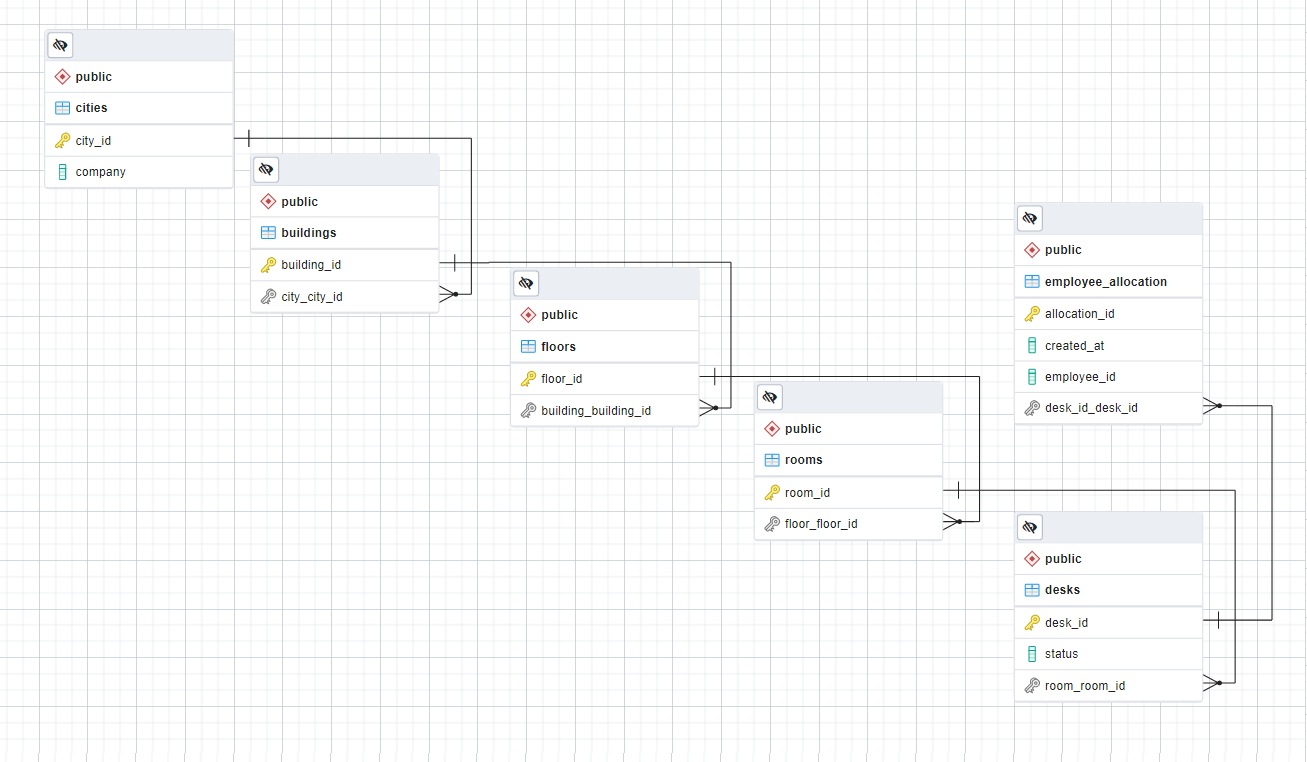
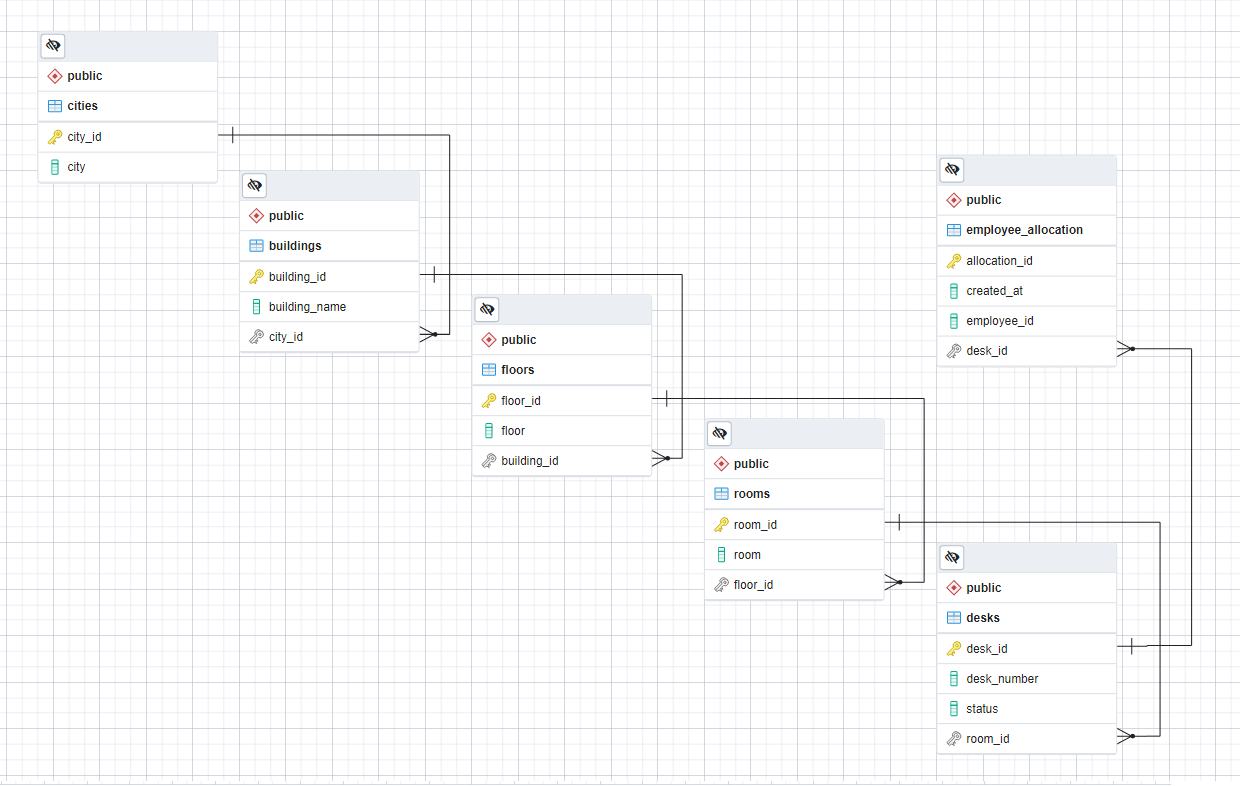
DTOs added

diff --git a/office-map-microservice/src/main/java/com/officemapmicroservice/dto/CityDto.java b/office-map-microservice/src/main/java/com/officemapmicroservice/dto/CityDto.java
@@ -1,0 +1,63 @@
+package com.officemapmicroservice.dto;
+
+import com.googlecode.jmapper.annotations.JMap;
+import com.googlecode.jmapper.annotations.JMapConversion;
+import com.officemapmicroservice.entities.Building;
+
+import java.util.ArrayList;
+import java.util.List;
+
+public class CityDto {
+
+    @JMap
+    private Long cityId;
+
+    @JMap
+    private String cityName;
+
+    @JMap("buildings")
+    private List<String> buildingsDtoList;
+
+    public CityDto(Long cityId, String cityName, List<String> buildingsDtoList) {
+        this.cityId = cityId;
+        this.cityName = cityName;
+        this.buildingsDtoList = buildingsDtoList;
+    }
+
+    public CityDto() {
+    }
+
+
+    @JMapConversion(from={"buildings"}, to={"buildingsDtoList"})
+    public List<String> conversion(List<Building> buildings) {
+            List<String> buildingsNameList = new ArrayList<>();
+        if(!buildings.isEmpty()) {
+                    buildings.forEach(building -> buildingsNameList.add(building.getBuildingName()));
+        }
+            return buildingsNameList;
+    }
+
+    public Long getCityId() {
+        return cityId;
+    }
+
+    public String getCityName() {
+        return cityName;
+    }
+
+    public List<String> getBuildingsDtoList() {
+        return buildingsDtoList;
+    }
+
+    public void setCityId(Long cityId) {
+        this.cityId = cityId;
+    }
+
+    public void setCityName(String cityName) {
+        this.cityName = cityName;
+    }
+
+    public void setBuildingsDtoList(List<String> buildingsDtoList) {
+        this.buildingsDtoList = buildingsDtoList;
+    }
+}

diff --git a/office-map-microservice/src/main/java/com/officemapmicroservice/dto/DeskDto.java b/office-map-microservice/src/main/java/com/officemapmicroservice/dto/DeskDto.java
@@ -1,0 +1,36 @@
+package com.officemapmicroservice.dto;
+
+import com.googlecode.jmapper.annotations.JMap;
+import com.googlecode.jmapper.annotations.JMapConversion;
+import com.officemapmicroservice.repositories.EmployeeAllocationRepository;
+
+import static com.officemapmicroservice.common.DeskStatusMessages.NOT_AVAILABLE;
+
+public class DeskDto {
+    private final EmployeeAllocationRepository employeeAllocationRepository;
+
+    @JMap("deskId")
+    private Long deskId;
+
+    @JMap("deskNumber")
+    private int deskNumber;
+
+    @JMap("status")
+    private String deskStatus;
+
+    @JMap("status")
+    private Long occupiedByEmployeeId;
+
+    public DeskDto(EmployeeAllocationRepository employeeAllocationRepository) {
+        this.employeeAllocationRepository = employeeAllocationRepository;
+    }
+
+    @JMapConversion(from={"status"}, to={"occupiedByEmployeeId"})
+    public Long convesion(String status) {
+        if(status.equals(NOT_AVAILABLE)) {
+            return employeeAllocationRepository.findByDesk(deskId).getDesk().getDeskId();
+        }
+        return null;
+    }
+
+}

diff --git a/office-map-microservice/src/main/java/com/officemapmicroservice/service/CityService.java b/office-map-microservice/src/main/java/com/officemapmicroservice/service/CityService.java
@@ -1,0 +1,28 @@
+package com.officemapmicroservice.service;
+
+import com.googlecode.jmapper.JMapper;
+import com.officemapmicroservice.dto.CityDto;
+import com.officemapmicroservice.entities.City;
+import com.officemapmicroservice.repositories.CitiesRepository;
+import org.springframework.beans.factory.annotation.Autowired;
+import org.springframework.stereotype.Service;
+
+import java.util.ArrayList;
+import java.util.List;
+
+@Service
+public class CityService {
+
+    private final CitiesRepository citiesRepository;
+@Autowired
+    public CityService(CitiesRepository citiesRepository) {
+        this.citiesRepository = citiesRepository;
+    }
+
+    public List<CityDto> getCities() {
+        JMapper<CityDto, City> cityDtoJMapper = new JMapper<>(CityDto.class, City.class);
+        List<CityDto> citiesDtoList = new ArrayList<>();
+        citiesRepository.findAll().forEach(city -> citiesDtoList.add(cityDtoJMapper.getDestination(city)));
+        return citiesDtoList;
+    }
+}

diff --git a/office-map-microservice/src/main/java/com/officemapmicroservice/dto/FloorDto.java b/office-map-microservice/src/main/java/com/officemapmicroservice/dto/FloorDto.java
@@ -1,0 +1,29 @@
+package com.officemapmicroservice.dto;
+
+import com.googlecode.jmapper.annotations.JMap;
+import com.googlecode.jmapper.annotations.JMapConversion;
+import com.officemapmicroservice.entities.Room;
+
+import java.util.ArrayList;
+import java.util.List;
+
+public class FloorDto {
+
+    @JMap("floorId")
+    private Long floorId;
+
+    @JMap("floor")
+    private int floorNumber;
+
+    @JMap("rooms")
+    private List<String> roomsList;
+
+    @JMapConversion(from={"rooms"}, to={"roomsList"})
+    public List<String> conversion(List<Room> rooms) {
+        List<String> roomsNameList = new ArrayList<>();
+        if (!rooms.isEmpty()) {
+            rooms.forEach(building -> roomsNameList.add(building.getRoomName()));
+        }
+        return roomsNameList;
+    }
+}

diff --git a/office-map-microservice/src/main/java/com/officemapmicroservice/entities/City.java b/office-map-microservice/src/main/java/com/officemapmicroservice/entities/City.java
@@ -1,12 +1,35 @@
 package com.officemapmicroservice.entities;
 
 import javax.persistence.*;
+import java.util.List;
 
 @Entity
 @Table(name = "cities")
 public class City {
     @Id
     @GeneratedValue(strategy = GenerationType.AUTO)
-    private long cityId;
-    private String city;
+    private Long cityId;
+    private String cityName;
+    @OneToMany(mappedBy = "cityName")
+    private List<Building> buildings;
+
+    public City() {
+    }
+
+    public City(Long cityId, String cityName) {
+        this.cityId = cityId;
+        this.cityName = cityName;
+    }
+
+    public Long getCityId() {
+        return cityId;
+    }
+
+    public String getCityName() {
+        return cityName;
+    }
+
+    public List<Building> getBuildings() {
+        return buildings;
+    }
 }

diff --git a/office-map-microservice/src/main/java/com/officemapmicroservice/api/controller/CityController.java b/office-map-microservice/src/main/java/com/officemapmicroservice/api/controller/CityController.java
@@ -1,0 +1,25 @@
+package com.officemapmicroservice.api.controller;
+
+import com.officemapmicroservice.service.CityService;
+import com.officemapmicroservice.dto.CityDto;
+import org.springframework.web.bind.annotation.GetMapping;
+import org.springframework.web.bind.annotation.RequestMapping;
+import org.springframework.web.bind.annotation.RestController;
+
+import java.util.List;
+
+@RestController
+@RequestMapping("api/cities")
+public class CityController {
+
+    private final CityService cityService;
+
+    public CityController(CityService cityService) {
+        this.cityService = cityService;
+    }
+
+//    @GetMapping("/")
+//    public List<CityDto> getAllCities() {
+//        return cityService.getCities();
+//    }
+}

diff --git a/office-map-microservice/src/main/java/com/officemapmicroservice/entities/Building.java b/office-map-microservice/src/main/java/com/officemapmicroservice/entities/Building.java
@@ -1,19 +1,26 @@
 package com.officemapmicroservice.entities;
 
 import javax.persistence.*;
+import java.util.List;
 
 @Entity
 @Table(name = "buildings")
 public class Building {
     @Id
     @GeneratedValue(strategy = GenerationType.AUTO)
-    private long buildingId;
+    private Long buildingId;
     @ManyToOne
-    @JoinColumn(name = "city_city_id")
-    private City city;
+    @JoinColumn(name = "city_id")
+    private City cityName;
     private String buildingName;
+    @OneToMany(mappedBy = "building")
+    private List<Floor> floors;
 
     public City getCity() {
-        return city;
+        return cityName;
+    }
+
+    public String getBuildingName() {
+        return buildingName;
     }
 }

diff --git a/office-map-microservice/src/main/java/com/officemapmicroservice/entities/Room.java b/office-map-microservice/src/main/java/com/officemapmicroservice/entities/Room.java
@@ -1,19 +1,26 @@
 package com.officemapmicroservice.entities;
 
 import javax.persistence.*;
+import java.util.List;
 
 @Entity
 @Table(name = "rooms")
 public class Room {
     @Id
     @GeneratedValue(strategy = GenerationType.AUTO)
-    private long roomId;
+    private Long roomId;
     @ManyToOne
-    @JoinColumn(name = "floor_floor_id")
+    @JoinColumn(name = "floor_id")
     private Floor floor;
-    private String room;
+    private String roomName;
+    @OneToMany(mappedBy = "room")
+    private List<Desk> desks;
 
     public Floor getFloor() {
         return floor;
+    }
+
+    public String getRoomName() {
+        return roomName;
     }
 }

diff --git a/office-map-microservice/src/main/java/com/officemapmicroservice/dto/BuildingDto.java b/office-map-microservice/src/main/java/com/officemapmicroservice/dto/BuildingDto.java
@@ -1,0 +1,24 @@
+package com.officemapmicroservice.dto;
+
+import com.googlecode.jmapper.annotations.JMap;
+import com.googlecode.jmapper.annotations.JMapConversion;
+import com.officemapmicroservice.entities.Floor;
+
+import java.util.List;
+
+public class BuildingDto {
+
+    @JMap("buildingId")
+    private Long buildingId;
+
+    @JMap("buildingName")
+    private String buildingName;
+
+    @JMap("floors")
+    private int floorsCount;
+
+    @JMapConversion(from={"floors"}, to={"floorsCount"})
+    public int conversion(List<Floor> floors) {
+        return floors.size();
+    }
+}

diff --git a/office-map-microservice/src/main/java/com/officemapmicroservice/entities/Floor.java b/office-map-microservice/src/main/java/com/officemapmicroservice/entities/Floor.java
@@ -1,17 +1,20 @@
 package com.officemapmicroservice.entities;
 
 import javax.persistence.*;
+import java.util.List;
 
 @Entity
 @Table(name = "floors")
 public class Floor {
     @Id
     @GeneratedValue(strategy = GenerationType.AUTO)
-    private long floorId;
+    private Long floorId;
     @ManyToOne
-    @JoinColumn(name = "building_building_id")
+    @JoinColumn(name = "building_id")
     private Building building;
     private int floor;
+    @OneToMany(mappedBy = "floor")
+    private List<Room> rooms;
 
     public Building getBuilding() {
         return building;

diff --git a/office-map-microservice/src/main/java/com/officemapmicroservice/dto/RoomDto.java b/office-map-microservice/src/main/java/com/officemapmicroservice/dto/RoomDto.java
@@ -1,0 +1,24 @@
+package com.officemapmicroservice.dto;
+
+import com.googlecode.jmapper.annotations.JMap;
+import com.googlecode.jmapper.annotations.JMapConversion;
+import com.officemapmicroservice.entities.Desk;
+
+import java.util.List;
+
+public class RoomDto {
+
+    @JMap("roomId")
+    private Long roomId;
+
+    @JMap("roomName")
+    private String roomName;
+
+    @JMap("desks")
+    private int desksCount;
+
+    @JMapConversion(from={"desks"}, to={"desksCount"})
+    public int conversion(List<Desk> desks) {
+        return desks.size();
+    }
+}

diff --git a/office-map-microservice/src/main/java/com/officemapmicroservice/entities/EmployeeAllocation.java b/office-map-microservice/src/main/java/com/officemapmicroservice/entities/EmployeeAllocation.java
@@ -10,7 +10,7 @@ import java.util.Date;
 public class EmployeeAllocation {
     @Id
     @GeneratedValue(strategy = GenerationType.AUTO)
-    private long allocationId;
+    private Long allocationId;
     @CreationTimestamp
     private Date createdAt;
     private long employeeId;
@@ -18,4 +18,8 @@ public class EmployeeAllocation {
     @OneToOne(cascade = CascadeType.ALL)
     @JoinColumn(name = "desk_Id", referencedColumnName = "desk_id")
     private Desk desk;
+
+    public Desk getDesk() {
+        return desk;
+    }
 }
